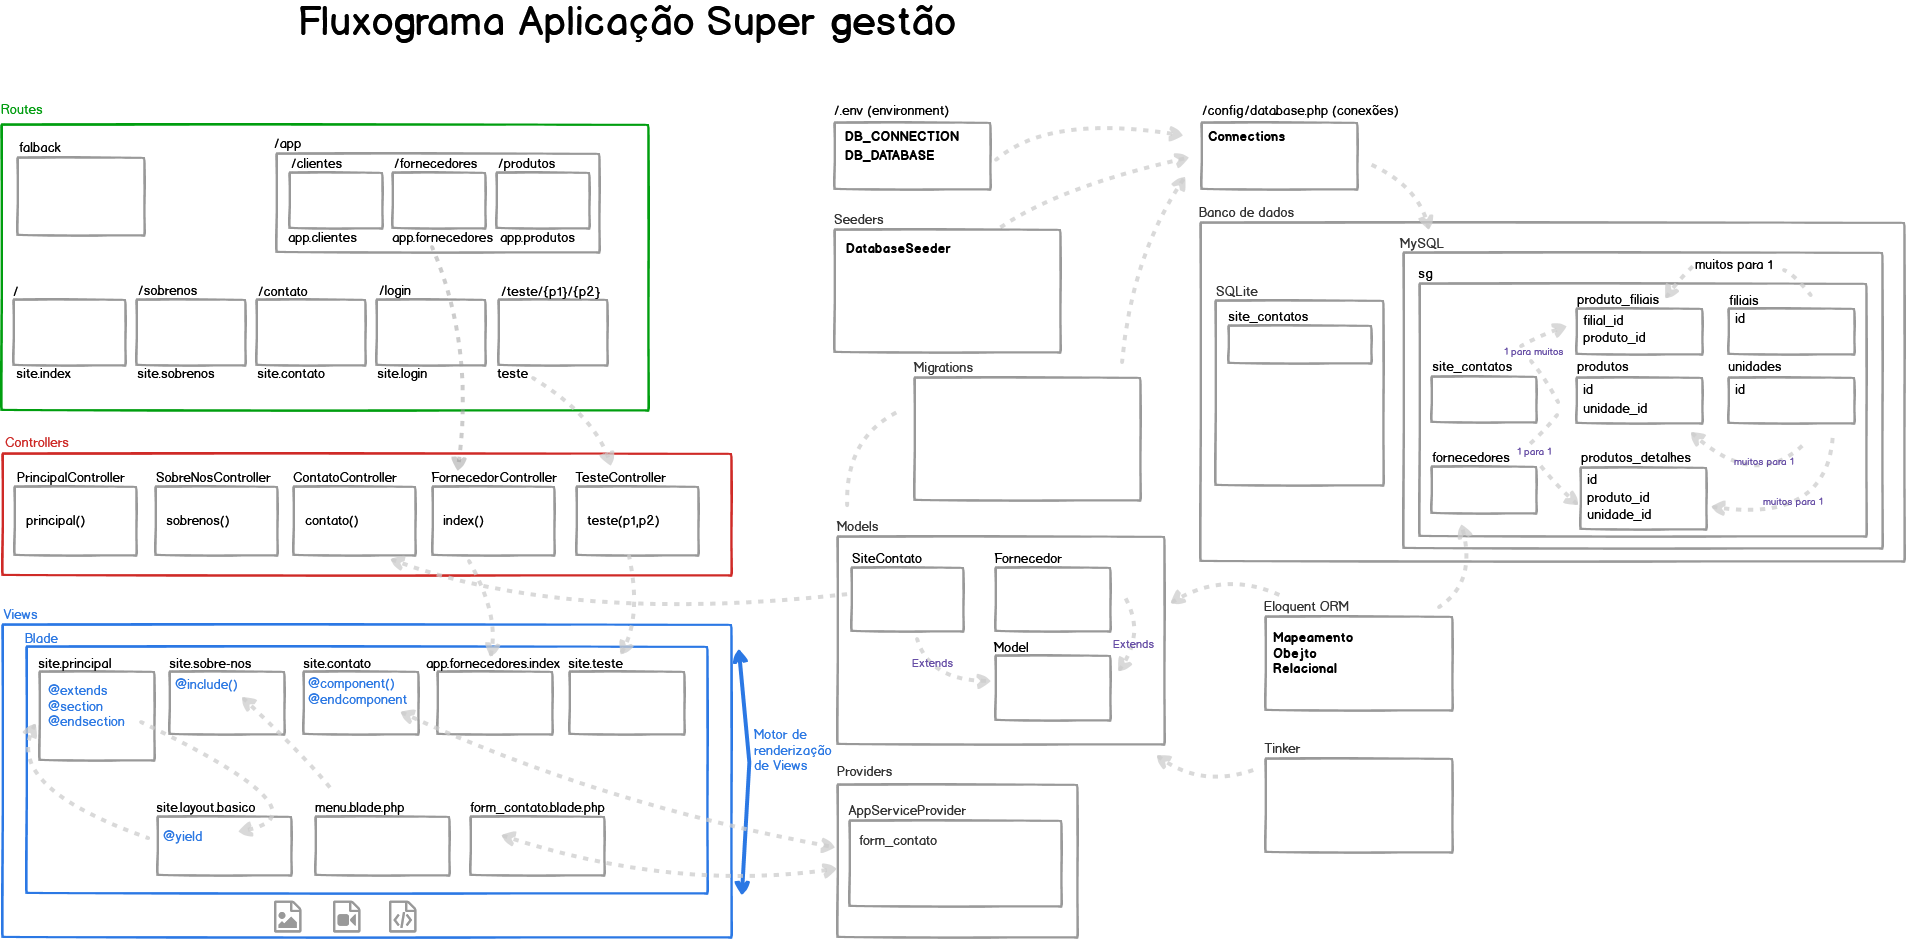
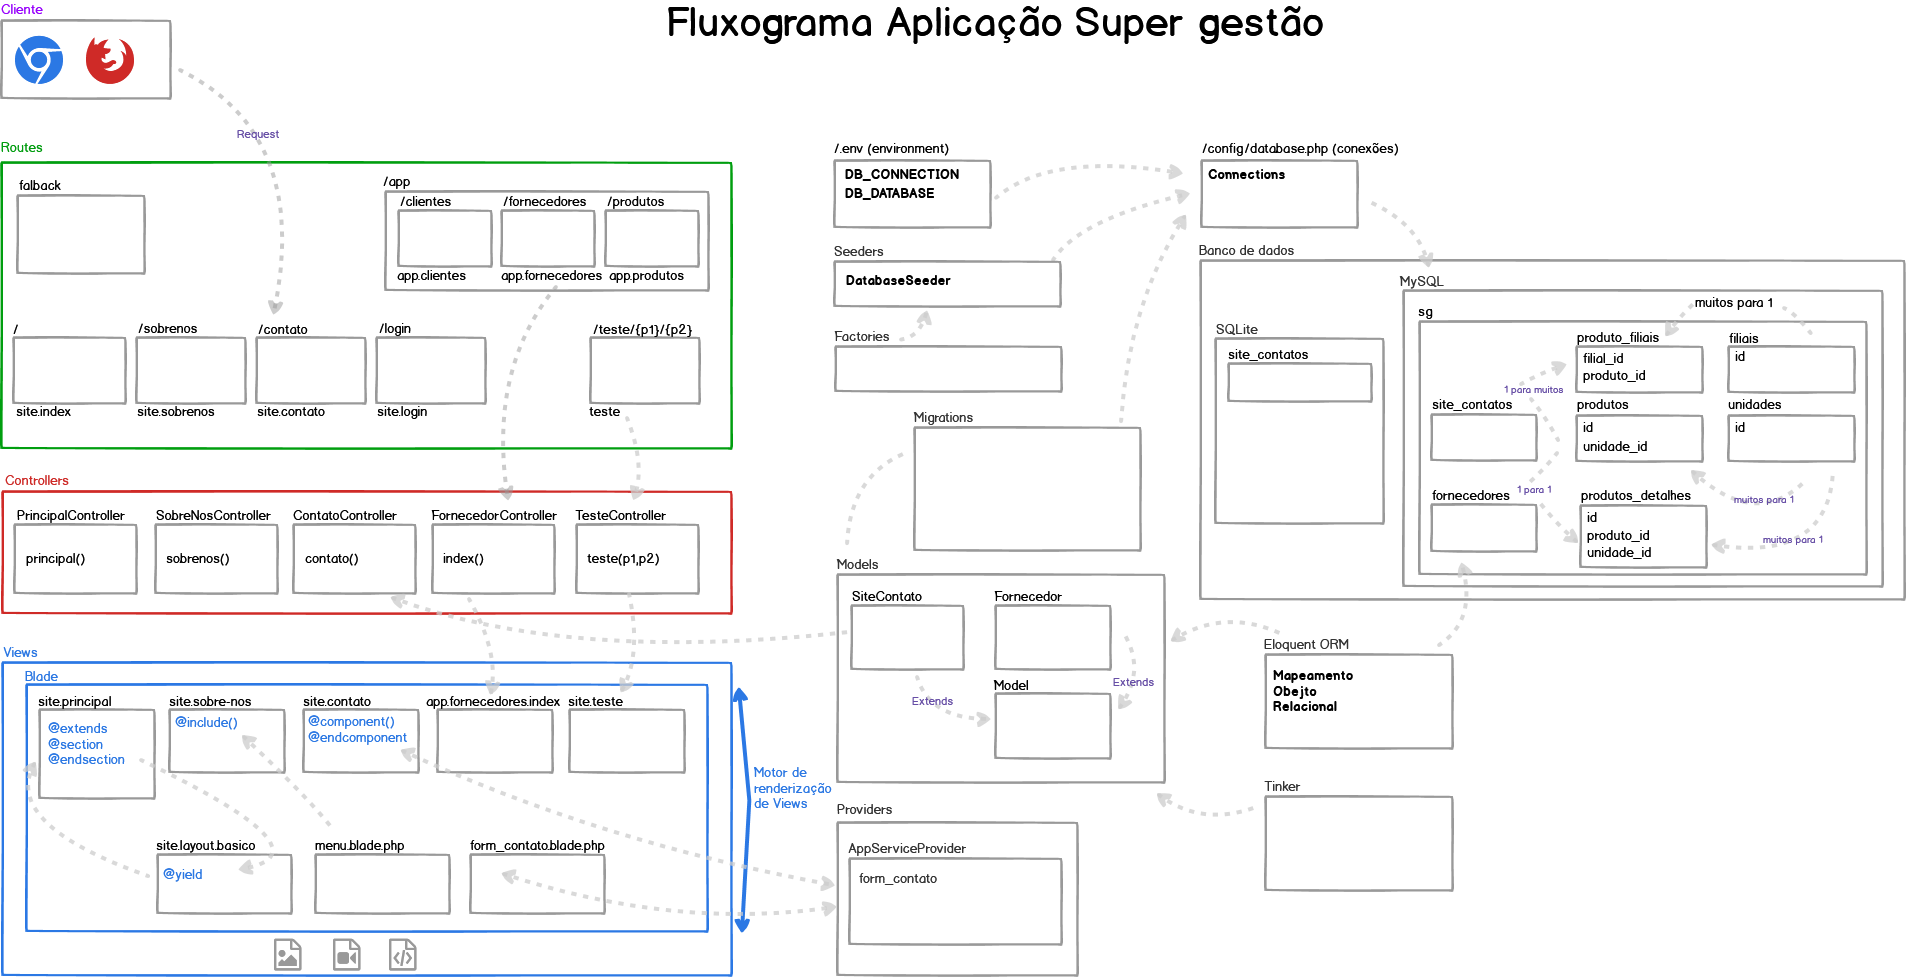
1.23 - usando factories para popular tabela site_contatos

diff --git a/database/seeders/SiteContatoSeeder.php b/database/seeders/SiteContatoSeeder.php
@@ -13,15 +13,17 @@ class SiteContatoSeeder extends Seeder
      */
     public function run(): void
     {
-        // Instanciando objeto
-        $siteContato = new SiteContato();
-        // Atribuindo valores
-        $siteContato->nome = "Aplicação Super Gestão";
-        $siteContato->telefone = "(11) 91234-5678";
-        $siteContato->email = "contato@supergestao.com.br";
-        $siteContato->motivo_contato = 1;
-        $siteContato->mensagem = "Seja bem vindo ao Suoer Gestão";
-        // Salvando no BD
-        $siteContato->save();
+        // // Instanciando objeto
+        // $siteContato = new SiteContato();
+        // // Atribuindo valores
+        // $siteContato->nome = "Aplicação Super Gestão";
+        // $siteContato->telefone = "(11) 91234-5678";
+        // $siteContato->email = "contato@supergestao.com.br";
+        // $siteContato->motivo_contato = 1;
+        // $siteContato->mensagem = "Seja bem vindo ao Suoer Gestão";
+        // // Salvando no BD
+        // $siteContato->save();
+
+        SiteContato::factory(100)->create();
     }
 }

diff --git a/database/factories/SiteContatoFactory.php b/database/factories/SiteContatoFactory.php
@@ -1,0 +1,29 @@
+<?php
+
+namespace Database\Factories;
+
+use Illuminate\Database\Eloquent\Factories\Factory;
+use App\Models\SiteContato;
+
+/**
+ * @extends \Illuminate\Database\Eloquent\Factories\Factory<\App\Models\SiteContato>
+ */
+class SiteContatoFactory extends Factory
+{
+    /**
+     * Define the model's default state.
+     *
+     * @return array<string, mixed>
+     */
+    public function definition(): array
+    {
+        return [
+            // atributos e valores fakes
+            'nome' => $this->faker->name,
+            'telefone' => $this->faker->tollFreePhoneNumber(),
+            'email' => $this->faker->unique()->email,
+            'motivo_contato' => $this->faker->numberBetween(1,3),
+            'mensagem' => $this->faker->text(100)
+        ];
+    }
+}

diff --git a/database/seeders/FornecedorSeeder.php b/database/seeders/FornecedorSeeder.php
@@ -22,22 +22,5 @@ class FornecedorSeeder extends Seeder
         $fornecedor->uf = "CE";
         $fornecedor->email = "contato@fornecedor100.com.br";
         $fornecedor->save();
-
-        // Usando método create eloquent (atenção ao atributo fillable)
-        Fornecedor::create([
-            'nome' => 'Fornecedor 200',
-            'site' => 'fornecedor200.con.br',
-            'uf' => 'RS',
-            'email' => 'contato@fornecedor200.com.br'
-        ]);
-
-        // Insert (Atenção! importar DB Facades)
-        DB::table('fornecedores')->insert([
-            'nome' => 'Fornecedor 300',
-            'site' => 'fornecedor300.con.br',
-            'uf' => 'SP',
-            'email' => 'contato@fornecedor300.com.br'
-        ]);
-
     }
 }
